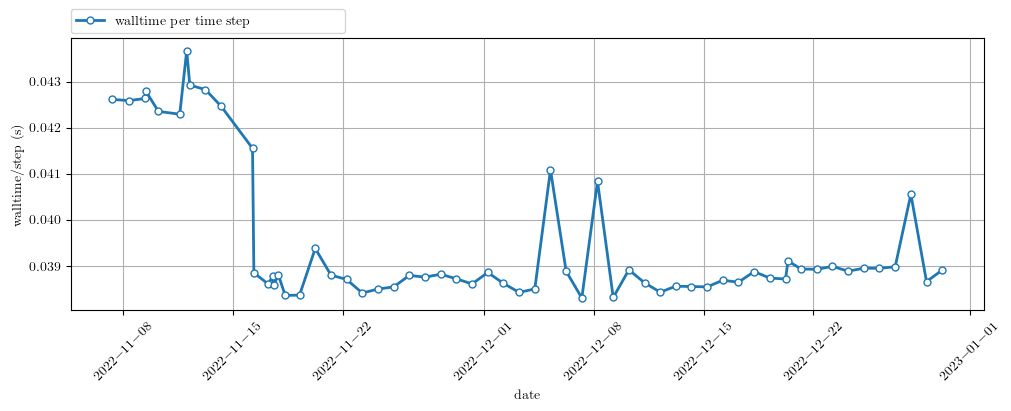
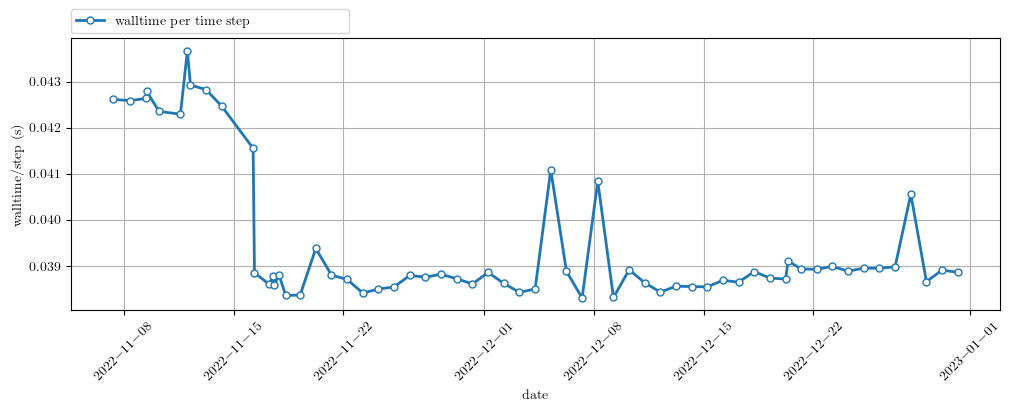
Automatic timing summary commit: lassen708 2022-12-31 05:01

diff --git a/README.md b/README.md
@@ -1,4 +1,4 @@
-Timings last ran on: 2022.12.30
+Timings last ran on: 2022.12.31
 
 # Status of production timings
 
